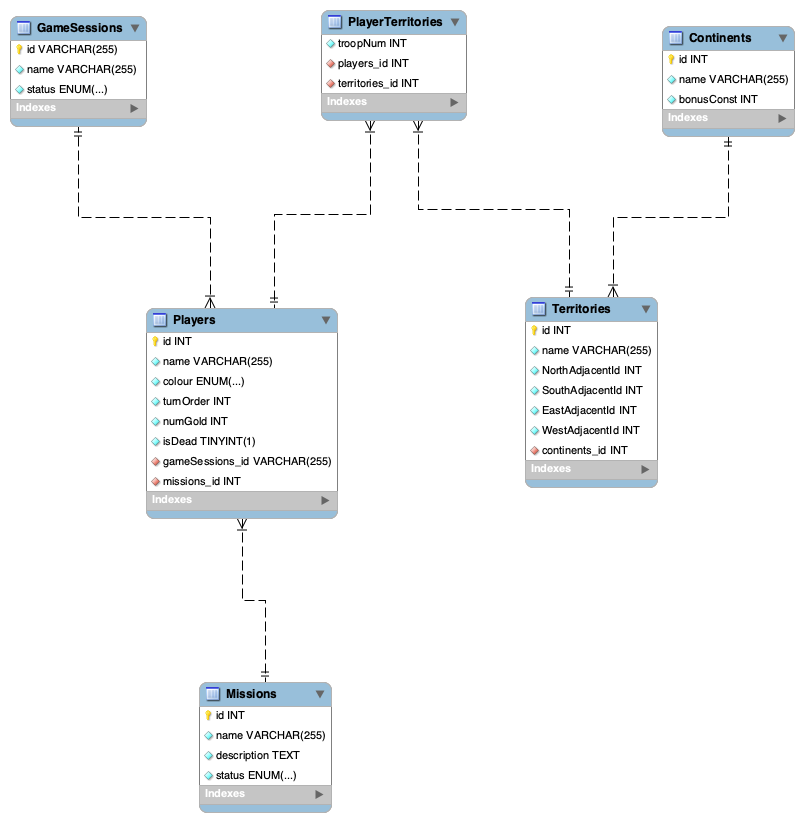
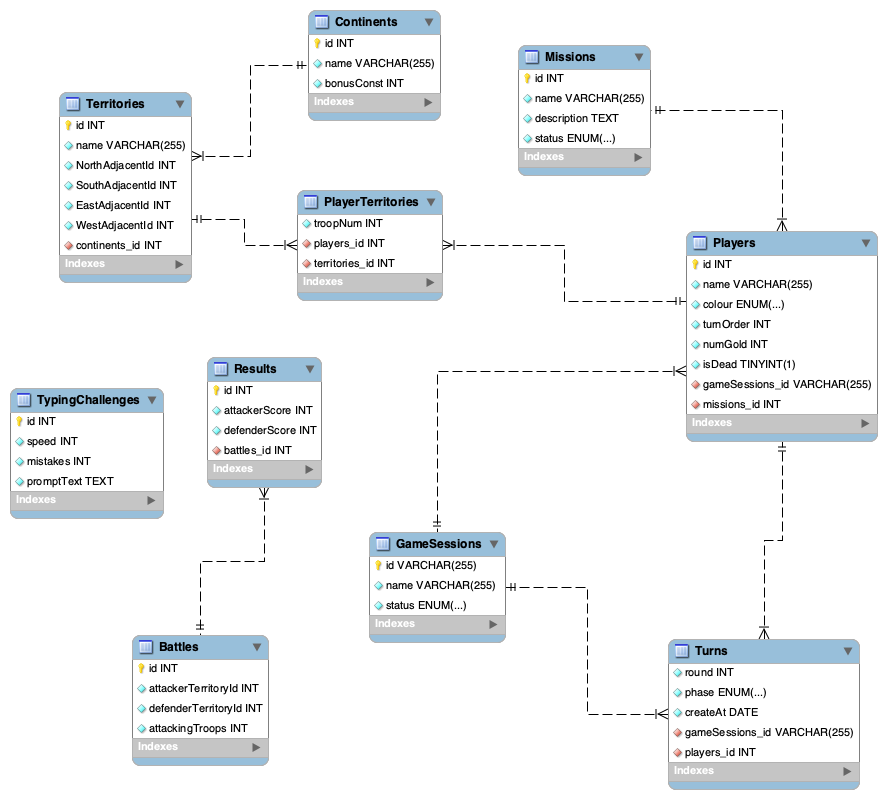
Updated database table with version tested in MySQL workbench

diff --git a/backend/src/DbQuery.cs b/backend/src/DbQuery.cs
@@ -43,80 +43,89 @@ public static class DbQuery
     private static void CreateTablesIfNotExist(MySqlConnection db)
     {
         var createTablesSql = @"
-            CREATE TABLE IF NOT EXISTS GameSessions (
-            id VARCHAR(255) PRIMARY KEY NOT NULL,
-            name VARCHAR(255) NOT NULL,
-            status ENUM('lobby', 'started', 'completed') NOT NULL DEFAULT 'lobby',
+            CREATE TABLE IF NOT EXITS GameSessions (
+                id VARCHAR(255) PRIMARY KEY NOT NULL,
+                name VARCHAR(255) NOT NULL,
+                status ENUM('lobby', 'started', 'completed') NOT NULL DEFAULT 'lobby'
+            );
 
-            CREATE TABLE IF NOT EXISTS Missions (
-            id INT PRIMARY KEY NOT NULL,
-            name VARCHAR(255) NOT NULL,
-            description TEXT NOT NULL,
-            status ENUM('available', 'occupied') NOT NULL DEFAULT 'available',
+            CREATE TABLE IF NOT EXITS Missions (
+                id INT PRIMARY KEY NOT NULL,
+                name VARCHAR(255) NOT NULL,
+                description TEXT NOT NULL,
+                status ENUM('available', 'occupied') NOT NULL DEFAULT 'available'
+            );
 
-            CREATE TABLE IF NOT EXISTS Players (
-            id INT PRIMARY KEY AUTO_INCREMENT,
-            name VARCHAR(255) NOT NULL,
-            colour ENUM('Black', 'Blue', 'Green', 'Pink', 'Red', 'Yellow') NOT NULL,
-            turnOrder INT NOT NULL,
-            numGold INT NOT NULL DEFAULT 0,
-            isDead BOOLEAN NOT NULL DEFAULT FALSE,
-            gameSessions_id VARCHAR (255) NOT NULL,
-            missions_id INT NOT NULL,
-            FOREIGN KEY (gameSessions_id) REFERENCES GameSessions(id),
-            FOREIGN KEY (missions_id) REFERENCES Missions(id),
+            CREATE TABLE IF NOT EXITS Players (
+                id INT PRIMARY KEY AUTO_INCREMENT,
+                name VARCHAR(255) NOT NULL,
+                colour ENUM('Black', 'Blue', 'Green', 'Pink', 'Red', 'Yellow') NOT NULL,
+                turnOrder INT NOT NULL,
+                numGold INT NOT NULL DEFAULT 0,
+                isDead BOOLEAN NOT NULL DEFAULT FALSE,
+                gameSessions_id VARCHAR(255) NOT NULL,
+                missions_id INT NOT NULL,
+                FOREIGN KEY (gameSessions_id) REFERENCES GameSessions(id),
+                FOREIGN KEY (missions_id) REFERENCES Missions(id)
+            );
 
-            CREATE TABLE IF NOT EXISTS Continents (
-            id INT PRIMARY KEY NOT NULL,
-            name VARCHAR(255) NOT NULL,
-            bonusConst INT NOT NULL DEFAULT 0,
+            CREATE TABLE IF NOT EXITS Continents (
+                id INT PRIMARY KEY NOT NULL,
+                name VARCHAR(255) NOT NULL,
+                bonusConst INT NOT NULL DEFAULT 0
+            );
 
-            CREATE TABLE IF NOT EXISTS Territories (
-            id INT PRIMARY KEY NOT NULL,
-            name VARCHAR(255) NOT NULL,
-            NorthAdjacentId INT NOT NULL,
-            SouthAdjacentId INT NOT NULL,
-            EastAdjacentId INT NOT NULL,
-            WestAdjacentId INT NOT NULL,
-            continents_id INT NOT NULL,
-            FOREIGN KEY (continents_id) REFERENCES Continents(id),
-            
-            CREATE TABLE IF NOT EXISTS PlayerTerritories (
-            troopNum INT NOT NULL DEFAULT 0,
-            players_id INT NOT NULL,
-            territories_id INT NOT NULL,
-            FOREIGN KEY (players_id) REFERENCES Players(id),
-            FOREIGN KEY (territories_id) REFERENCES Territories(id),
+            CREATE TABLE IF NOT EXITS Territories (
+                id INT PRIMARY KEY NOT NULL,
+                name VARCHAR(255) NOT NULL,
+                NorthAdjacentId INT NOT NULL,
+                SouthAdjacentId INT NOT NULL,
+                EastAdjacentId INT NOT NULL,
+                WestAdjacentId INT NOT NULL,
+                continents_id INT NOT NULL,
+                FOREIGN KEY (continents_id) REFERENCES Continents(id)
+            );
 
-            CREATE TABLE IF NOT EXISTS Turns (
-            round INT NOT NULL DEFAULT 0,
-            phase ENUM('build', 'assigned', 'attack', 'renforce') NOT NULL DEFAULT 'build',
-            createAt DATE DEFAULT (CURDATE()) NOT NULL,
-            gameSessions_id INT NOT NULL,
-            players_id INT NOT NULL,
-            FOREIGN KEY (gameSessions_id) REFERENCES GameSessions(id),
-            FOREIGN KEY (players_id) REFERENCES Players(id),
+            CREATE TABLE IF NOT EXITS PlayerTerritories (
+                troopNum INT NOT NULL DEFAULT 0,
+                players_id INT NOT NULL,
+                territories_id INT NOT NULL,
+                FOREIGN KEY (players_id) REFERENCES Players(id),
+                FOREIGN KEY (territories_id) REFERENCES Territories(id)
+            );
 
-            CREATE TABLE IF NOT EXISTS Battles (
-            id INT PRIMARY KEY NOT NULL,
-            attackerTerritoryId INT NOT NULL,
-            defenderTerritoryId INT NOT NULL,
-            attackingTroops INT NOT NULL DEFAULT 0,
+            CREATE TABLE IF NOT EXITS Turns (
+                round INT NOT NULL DEFAULT 0,
+                phase ENUM('build', 'assigned', 'attack', 'reinforce') NOT NULL DEFAULT 'build',
+                createAt DATE DEFAULT (CURDATE()) NOT NULL,
+                gameSessions_id VARCHAR(255) NOT NULL, -- FIXED: Changed from INT to VARCHAR
+                players_id INT NOT NULL,
+                FOREIGN KEY (gameSessions_id) REFERENCES GameSessions(id),
+                FOREIGN KEY (players_id) REFERENCES Players(id)
+            );
 
-            CREATE TABLE IF NOT EXISTS TypingChallenges (
-            id INT PRIMARY KEY NOT NULL,
-            speed INT PRIMARY KEY NOT NULL,
-            mistakes INT PRIMARY KEY NOT NULL,
-            promptText TEXT NOT NULL,
+            CREATE TABLE IF NOT EXITS Battles (
+                id INT PRIMARY KEY NOT NULL,
+                attackerTerritoryId INT NOT NULL,
+                defenderTerritoryId INT NOT NULL,
+                attackingTroops INT NOT NULL DEFAULT 0
+            );
 
-            CREATE TABLE IF NOT EXISTS Results (
-            id INT PRIMARY KEY NOT NULL,
-            attackerScore INT NOT NULL DEFAULT 0,
-            defenderScore INT NOT NULL DEFAULT 0,
-            battles_id INT NOT NULL,
-            FOREIGN KEY (battles_id) REFERENCES battles(id),
-        
-        )";
+            CREATE TABLE IF NOT EXITS TypingChallenges (
+                id INT PRIMARY KEY NOT NULL, -- FIXED: Removed PRIMARY KEY from next two lines
+                speed INT NOT NULL,
+                mistakes INT NOT NULL,
+                promptText TEXT NOT NULL
+            );
+
+            CREATE TABLE IF NOT EXITS Results (
+                id INT PRIMARY KEY NOT NULL,
+                attackerScore INT NOT NULL DEFAULT 0,
+                defenderScore INT NOT NULL DEFAULT 0,
+                battles_id INT NOT NULL,
+                FOREIGN KEY (battles_id) REFERENCES Battles(id)
+            );
+        ";
 
         // Execute each statement separately
         foreach (var sql in createTablesSql.Split(';'))
